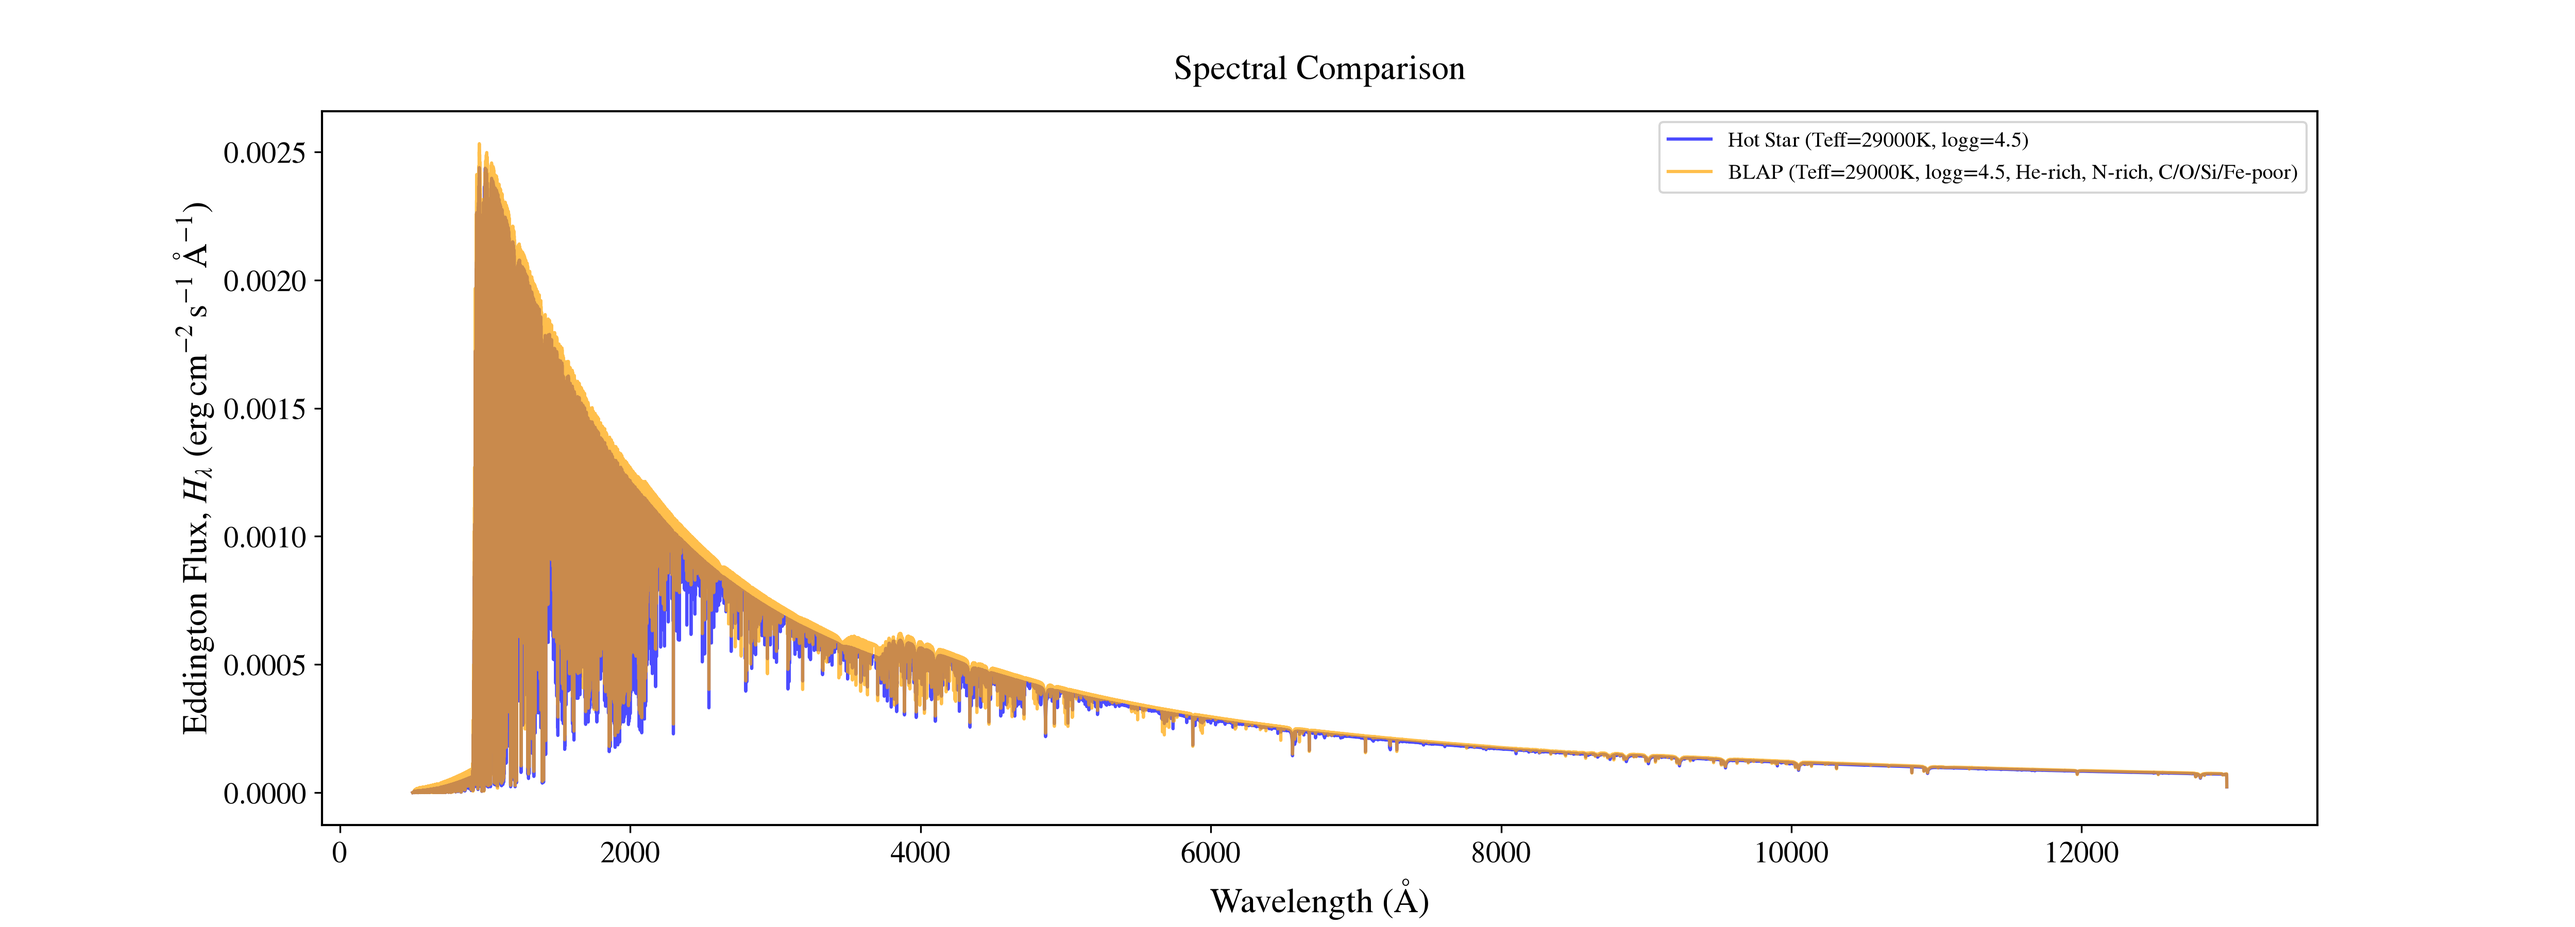
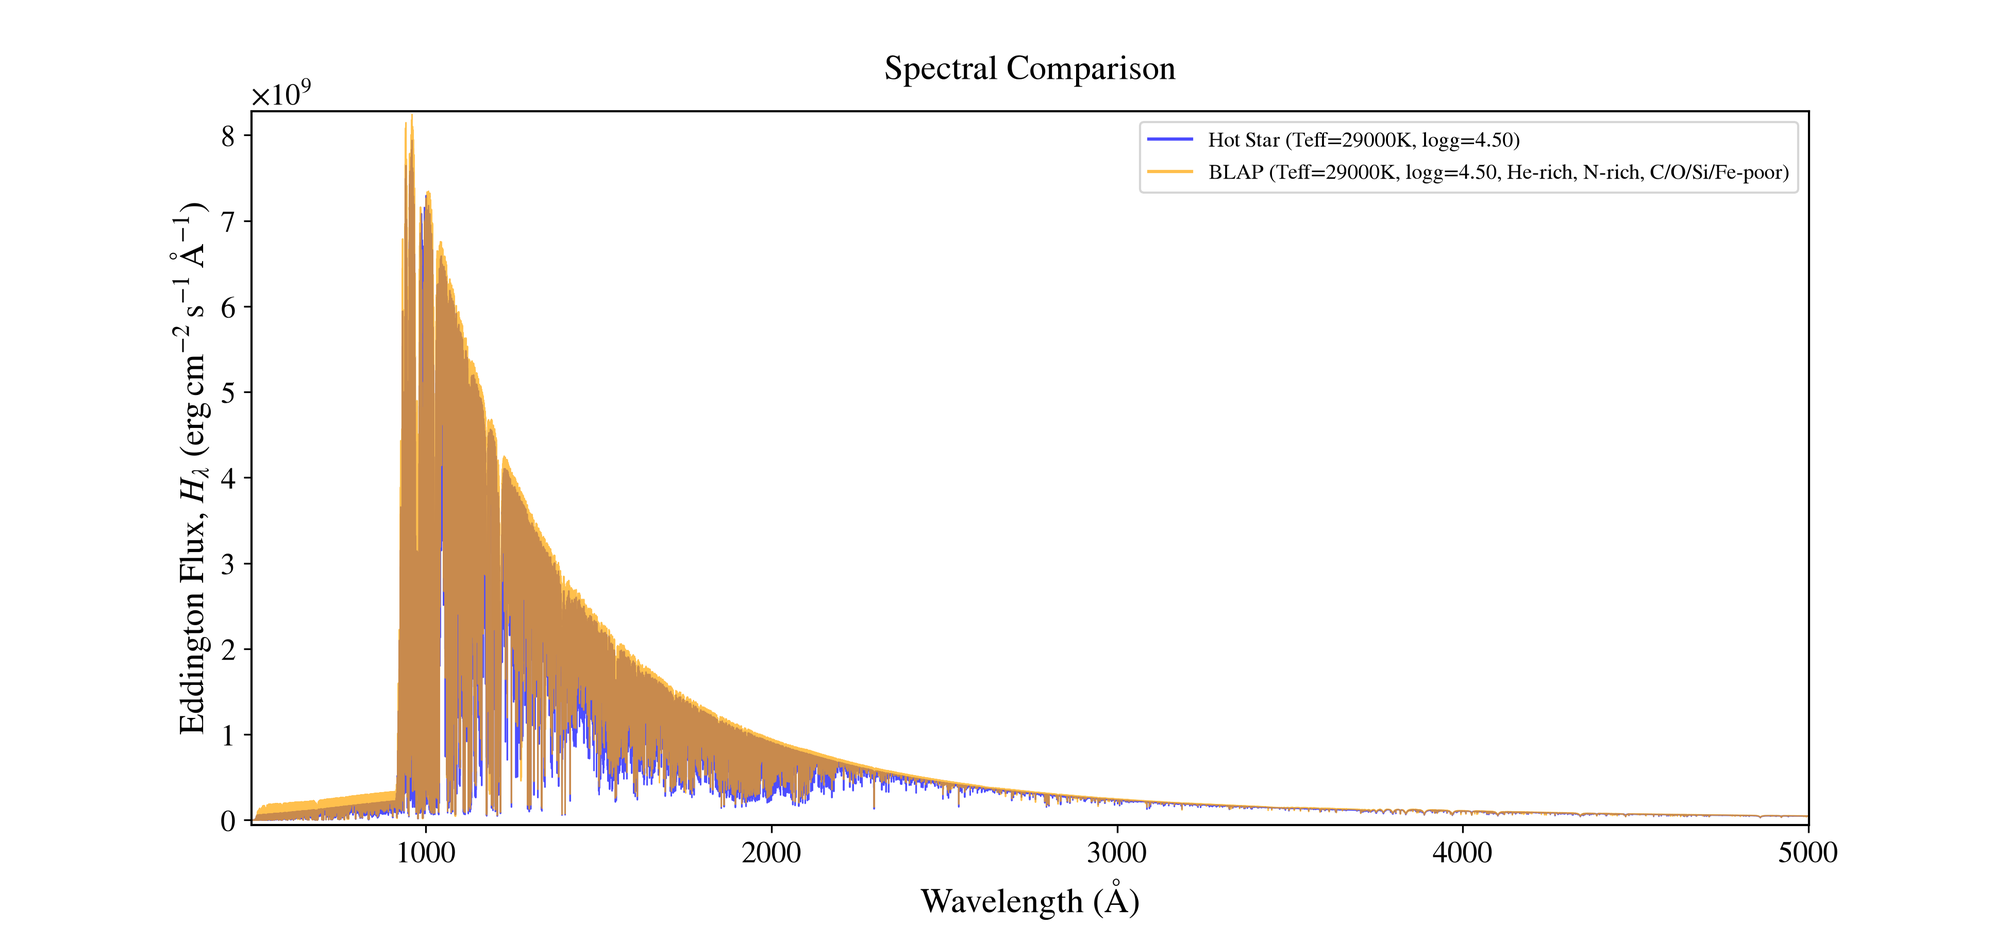
Add files via upload

diff --git a/notebooks/BLAP_spectrum_Kurucz.py b/notebooks/BLAP_spectrum_Kurucz.py
@@ -1,0 +1,236 @@
+import os, sys
+import numpy as np
+import matplotlib.pyplot as plt
+import copy
+
+from vidmapy.kurucz.atlas import Atlas
+from vidmapy.kurucz.synthe import Synthe
+from vidmapy.kurucz.parameters import Parameters
+
+
+plt.rcParams['figure.dpi'] = 150
+plt.rcParams['axes.linewidth'] = 1
+plt.rcParams['axes.titlepad'] = 15
+plt.rcParams['font.family'] = 'STIXGeneral'
+plt.rcParams['mathtext.fontset'] = 'stix'
+plt.rcParams['axes.formatter.use_mathtext'] = True
+plt.rcParams['axes.titlesize'] = 16
+plt.rcParams['axes.labelsize'] = 16
+plt.rcParams['xtick.labelsize'] = 14
+plt.rcParams['ytick.labelsize'] = 14
+plt.rcParams['figure.facecolor'] = 'white'
+plt.rcParams['savefig.facecolor'] = 'white'
+plt.rcParams['savefig.dpi'] = 300
+plt.rcParams["savefig.directory"] = os.getcwd()
+
+
+
+hot_star_params = Parameters(teff=29000,
+                             logg=4.5,
+                             metallicity=0.0,
+                             microturbulence=10,
+                             vsini=20,
+                             resolution=50000,
+                             wave_min=500,
+                             wave_max=13000)
+
+blap_params = copy.deepcopy(hot_star_params)
+
+
+ref_abundances = blap_params.chemical_composition._atoms_data[2:] # Skip H and He
+metals = np.sum([10**float(ref_abundances[idx][1]) if ref_abundances[idx][1] is not None else 0 for idx in range(len(ref_abundances))])
+###print(f"Metals fraction: {metals:.6f}")
+
+
+blap_params.chemical_composition["He"] = 4.5 * blap_params.chemical_composition["He"]
+blap_params.chemical_composition["H"] = 1 - metals - blap_params.chemical_composition["He"]
+
+blap_params.chemical_composition["C"] =  np.log10(0.5) + blap_params.chemical_composition["C"]
+blap_params.chemical_composition["N"] =  np.log10(20) + blap_params.chemical_composition["N"]
+blap_params.chemical_composition["O"] =  np.log10(0.5) + blap_params.chemical_composition["O"]
+blap_params.chemical_composition["Si"] = np.log10(0.5) + blap_params.chemical_composition["Si"]
+blap_params.chemical_composition["Fe"] = np.log10(0.5) + blap_params.chemical_composition["Fe"]
+
+
+atlas_worker= Atlas()
+synthe_worker = Synthe()
+
+
+hot_star_atmosphere_model = atlas_worker.get_model(hot_star_params)
+print(hot_star_atmosphere_model) # controlled by the __str__() special method
+hot_star_spectrum = synthe_worker.get_spectrum(hot_star_atmosphere_model, quiet=False)
+
+blap_atmosphere_model = atlas_worker.get_model(blap_params)
+print(blap_atmosphere_model)
+blap_spectrum = synthe_worker.get_spectrum(blap_atmosphere_model, quiet=False)
+
+
+fig, ax = plt.subplots(figsize=(13, 6))
+ax.plot(hot_star_spectrum.wave, hot_star_spectrum.flux, label=f"Hot Star (Teff={hot_star_params.teff}K, logg={hot_star_params.logg:.2f})", color='blue', alpha=0.7)
+ax.plot(blap_spectrum.wave, blap_spectrum.flux, label=f"BLAP (Teff={blap_params.teff}K, logg={blap_params.logg:.2f}, He-rich, N-rich, C/O/Si/Fe-poor)", color='orange', alpha=0.7)
+ax.set_xlabel("Wavelength (Å)")
+ax.set_ylabel(rf"Eddington Flux, $H_\lambda$ ($\rm erg\,cm^{{-2}}\,s^{{-1}}\,\AA^{{-1}}$)")
+ax.legend()
+ax.set_title("Spectral Comparison")
+plt.show()
+
+
+# Save:
+#----------------------------------------------------------------------------------------------------------------------------------------------
+hot_star_data = np.column_stack((hot_star_spectrum.wave, hot_star_spectrum.flux, hot_star_spectrum.continuum, hot_star_spectrum.normed_flux))
+hot_star_metadata_and_header = f"""# Spectrum generated from the Kurucz ATLAS and SYNTHE codes via the VidmaPy package.
+# Parameters: Teff={hot_star_params.teff} [K]
+# logg={hot_star_params.logg} [dex]
+# [M/H]={hot_star_params.metallicity} [dex]
+# microturbulence={hot_star_params.microturbulence} [km/s]
+# vsini={hot_star_params.vsini} [km/s]
+# spectral resolution={hot_star_params.resolution} [-]
+# wavelength range=({hot_star_params.wave_min}-{hot_star_params.wave_max}) [Å]
+#
+# wavelength [Å]    Eddington flux [erg/cm^2/s/Å]    continuum [erg/cm^2/s/Å]    normalized_flux [-]
+"""
+np.savetxt("hot_star_spectrum.txt", hot_star_data, delimiter="    ", header=hot_star_metadata_and_header, comments='')
+
+blap_data = np.column_stack((blap_spectrum.wave, blap_spectrum.flux, blap_spectrum.continuum, blap_spectrum.normed_flux))
+blap_metadata_and_header = f"""# Spectrum generated from the Kurucz ATLAS and SYNTHE codes via the VidmaPy package.
+# Parameters: Teff={blap_params.teff} [K]
+# logg={blap_params.logg} [dex]
+# [M/H]={blap_params.metallicity} [dex]
+# microturbulence={blap_params.microturbulence} [km/s]
+# vsini={blap_params.vsini} [km/s]
+# spectral resolution={blap_params.resolution} [-]
+# wavelength range=({blap_params.wave_min}-{blap_params.wave_max}) [Å]
+#
+# wavelength [Å]    Eddington flux [erg/cm^2/s/Å]    continuum [erg/cm^2/s/Å]    normalized_flux [-]
+"""
+np.savetxt("blap_spectrum.txt", blap_data, delimiter="    ", header=blap_metadata_and_header, comments='')
+
+
+
+print("Spectra saved to 'hot_star_spectrum.txt' and 'blap_spectrum.txt'.")
+sys.exit(0)
+
+
+
+"""
+_reference_composition = [
+    [  1, 0.9204 , 'H' , 'Hydrogen'],
+    [  2, 0.07834, 'He', 'Helium'],
+    [  3, -10.94 , 'Li', 'Lithium'],
+    [  4, -10.64 , 'Be', 'Beryllium'],
+    [  5, -9.49  , 'B' , 'Boron'],
+    [  6, -3.52  , 'C' , 'Carbon'],
+    [  7, -4.12  , 'N' , 'Nitrogen'],
+    [  8, -3.21  , 'O' , 'Oxygen'],
+    [  9, -7.48  , 'F' , 'Fluorine'],
+    [ 10, -3.96  , 'Ne', 'Neon'],
+    [ 11, -5.71  , 'Na', 'Sodium'],
+    [ 12, -4.46  , 'Mg', 'Magnesium'],
+    [ 13, -5.57  , 'Al', 'Aluminum'],
+    [ 14, -4.49  , 'Si', 'Silicon'],
+    [ 15, -6.59  , 'P' , 'Phosphorus'],
+    [ 16, -4.71  , 'S' , 'Sulfur'],
+    [ 17, -6.54  , 'Cl', 'Chlorine'],
+    [ 18, -5.64  , 'Ar', 'Argon'],
+    [ 19, -6.92  , 'K' , 'Potassium'],
+    [ 20, -5.68  , 'Ca', 'Calcium'],
+    [ 21, -8.87  , 'Sc', 'Scandium'],
+    [ 22, -7.02  , 'Ti', 'Titanium'],
+    [ 23, -8.04  , 'V' , 'Vanadium'],
+    [ 24, -6.37  , 'Cr', 'Chromium'],
+    [ 25, -6.65  , 'Mn', 'Manganese'],
+    [ 26, -4.54  , 'Fe', 'Iron'],
+    [ 27, -7.12  , 'Co', 'Cobalt'],
+    [ 28, -5.79  , 'Ni', 'Nickel'],
+    [ 29, -7.83  , 'Cu', 'Copper'],
+    [ 30, -7.44  , 'Zn', 'Zinc'],
+    [ 31, -9.16  , 'Ga', 'Gallium'],
+    [ 32, -8.63  , 'Ge', 'Germanium'],
+    [ 33, -9.67  , 'As', 'Arsenic'],
+    [ 34, -8.63  , 'Se', 'Selenium'],
+    [ 35, -9.41  , 'Br', 'Bromine'],
+    [ 36, -8.73  , 'Kr', 'Krypton'],
+    [ 37, -9.44  , 'Rb', 'Rubidium'],
+    [ 38, -9.07  , 'Sr', 'Strontium'],
+    [ 39, -9.8   , 'Y' , 'Yttrium'],
+    [ 40, -9.44  , 'Zr', 'Zirconium'],
+    [ 41, -10.62 , 'Nb', 'Niobium'],
+    [ 42, -10.12 , 'Mo', 'Molybdenum'],
+    [ 43, -20.0  , 'Tc', 'Technetium'],
+    [ 44, -10.2  , 'Ru', 'Ruthenium'],
+    [ 45, -10.92 , 'Rh', 'Rhodium'],
+    [ 46, -10.35 , 'Pd', 'Palladium'],
+    [ 47, -11.1  , 'Ag', 'Silver'],
+    [ 48, -10.27 , 'Cd', 'Cadmium'],
+    [ 49, -10.38 , 'In', 'Indium'],
+    [ 50, -10.04 , 'Sn', 'Tin'],
+    [ 51, -11.04 , 'Sb', 'Antimony'],
+    [ 52, -9.8   , 'Te', 'Tellurium'],
+    [ 53, -10.53 , 'I' , 'Iodine'],
+    [ 54, -9.87  , 'Xe', 'Xenon'],
+    [ 55, -10.91 , 'Cs', 'Cesium'],
+    [ 56, -9.91  , 'Ba', 'Barium'],
+    [ 57, -10.87 , 'La', 'Lanthanum'],
+    [ 58, -10.46 , 'Ce', 'Cerium'],
+    [ 59, -11.33 , 'Pr', 'Praseodymium'],
+    [ 60, -10.54 , 'Nd', 'Neodymium'],
+    [ 61, -20.0  , 'Pm', 'Promethium'],
+    [ 62, -11.03 , 'Sm', 'Samarium'],
+    [ 63, -11.53 , 'Eu', 'Europium'],
+    [ 64, -10.92 , 'Gd', 'Gadolinium'],
+    [ 65, -11.69 , 'Tb', 'Terbium'],
+    [ 66, -10.9  , 'Dy', 'Dysprosium'],
+    [ 67, -11.78 , 'Ho', 'Holmium'],
+    [ 68, -11.11 , 'Er', 'Erbium'],
+    [ 69, -12.04 , 'Tm', 'Thulium'],
+    [ 70, -10.96 , 'Yb', 'Ytterbium'],
+    [ 71, -11.98 , 'Lu', 'Lutetium'],
+    [ 72, -11.16 , 'Hf', 'Hafnium'],
+    [ 73, -12.17 , 'Ta', 'Tantalum'],
+    [ 74, -10.93 , 'W' , 'Tungsten'],
+    [ 75, -11.76 , 'Re', 'Rhenium'],
+    [ 76, -10.59 , 'Os', 'Osmium'],
+    [ 77, -10.69 , 'Ir', 'Iridium'],
+    [ 78, -10.24 , 'Pt', 'Platinum'],
+    [ 79, -11.03 , 'Au', 'Gold'],
+    [ 80, -10.91 , 'Hg', 'Mercury'],
+    [ 81, -11.14 , 'Tl', 'Thallium'],
+    [ 82, -10.09 , 'Pb', 'Lead'],
+    [ 83, -11.33 , 'Bi', 'Bismuth'],
+    [ 84, -20.0  , 'Po', 'Polonium'],
+    [ 85, -20.0  , 'At', 'Astatine'],
+    [ 86, -20.0  , 'Rn', 'Radon'],
+    [ 87, -20.0  , 'Fr', 'Francium'],
+    [ 88, -20.0  , 'Ra', 'Radium'],
+    [ 89, -20.0  , 'Ac', 'Actinium'],
+    [ 90, -11.95 , 'Th', 'Thorium'],
+    [ 91, -20.0  , 'Pa', 'Protactinium'],
+    [ 92, -12.54 , 'U' , 'Uranium'],
+    [ 93, -20.0  , 'Np', 'Neptunium'],
+    [ 94, -20.0  , 'Pu', 'Plutonium'],
+    [ 95, -20.0  , 'Am', 'Americium'],
+    [ 96, -20.0  , 'Cm', 'Curium'],
+    [ 97, -20.0  , 'Bk', 'Berkelium'],
+    [ 98, -20.0  , 'Cf', 'Californium'],
+    [ 99, -20.0  , 'Es', 'Einsteinium'],
+    [100, None   , 'Fm', 'Fermium'],
+    [101, None   , 'Md', 'Mendelevium'],
+    [102, None   , 'No', 'Nobelium'],
+    [103, None   , 'Lr', 'Lawrencium'],
+    [104, None   , 'Rf', 'Rutherfordium'],
+    [105, None   , 'Db', 'Dubnium'],
+    [106, None   , 'Sg', 'Seaborgium'],
+    [107, None   , 'Bh', 'Bohrium'],
+    [108, None   , 'Hs', 'Hassium'],
+    [109, None   , 'Mt', 'Meitnerium'],
+    [110, None   , 'Ds', 'Darmstadtium'],
+    [111, None   , 'Rg', 'Roentgenium'],
+    [112, None   , 'Cn', 'Copernicium'],
+    [113, None   , 'Nh', 'Nihonium'],
+    [114, None   , 'Fl', 'Flerovium'],
+    [115, None   , 'Mc', 'Moscovium'],
+    [116, None   , 'Lv', 'Livermorium'],
+    [117, None   , 'Ts', 'Tennessine'],
+    [118, None   , 'Og', 'Oganesson']
+    ]
+"""

diff --git a/notebooks/Vega_spectrum_Kurucz.py b/notebooks/Vega_spectrum_Kurucz.py
@@ -61,7 +61,7 @@ vega_metadata_and_header = f"""# Spectrum generated from the Kurucz ATLAS and SY
 # [M/H]={vega_params.metallicity} [dex]
 # microturbulence={vega_params.microturbulence} [km/s]
 # vsini={vega_params.vsini} [km/s]
-# spectral resolution={vega_params.resolution} [km/s]
+# spectral resolution={vega_params.resolution} [-]
 # wavelength range=({vega_params.wave_min}-{vega_params.wave_max}) [Å]
 #
 # wavelength [Å]    Eddington flux [erg/cm^2/s/Å]    continuum [erg/cm^2/s/Å]    normalized_flux [-]

diff --git a/notebooks/Sun_spectrum_Kurucz.py b/notebooks/Sun_spectrum_Kurucz.py
@@ -61,7 +61,7 @@ sun_metadata_and_header = f"""# Spectrum generated from the Kurucz ATLAS and SYN
 # [M/H]={sun_params.metallicity} [dex]
 # microturbulence={sun_params.microturbulence} [km/s]
 # vsini={sun_params.vsini} [km/s]
-# spectral resolution={sun_params.resolution} [km/s]
+# spectral resolution={sun_params.resolution} [-]
 # wavelength range=({sun_params.wave_min}-{sun_params.wave_max}) [Å]
 #
 # wavelength [Å]    Eddington flux [erg/cm^2/s/Å]    continuum [erg/cm^2/s/Å]    normalized_flux [-]
